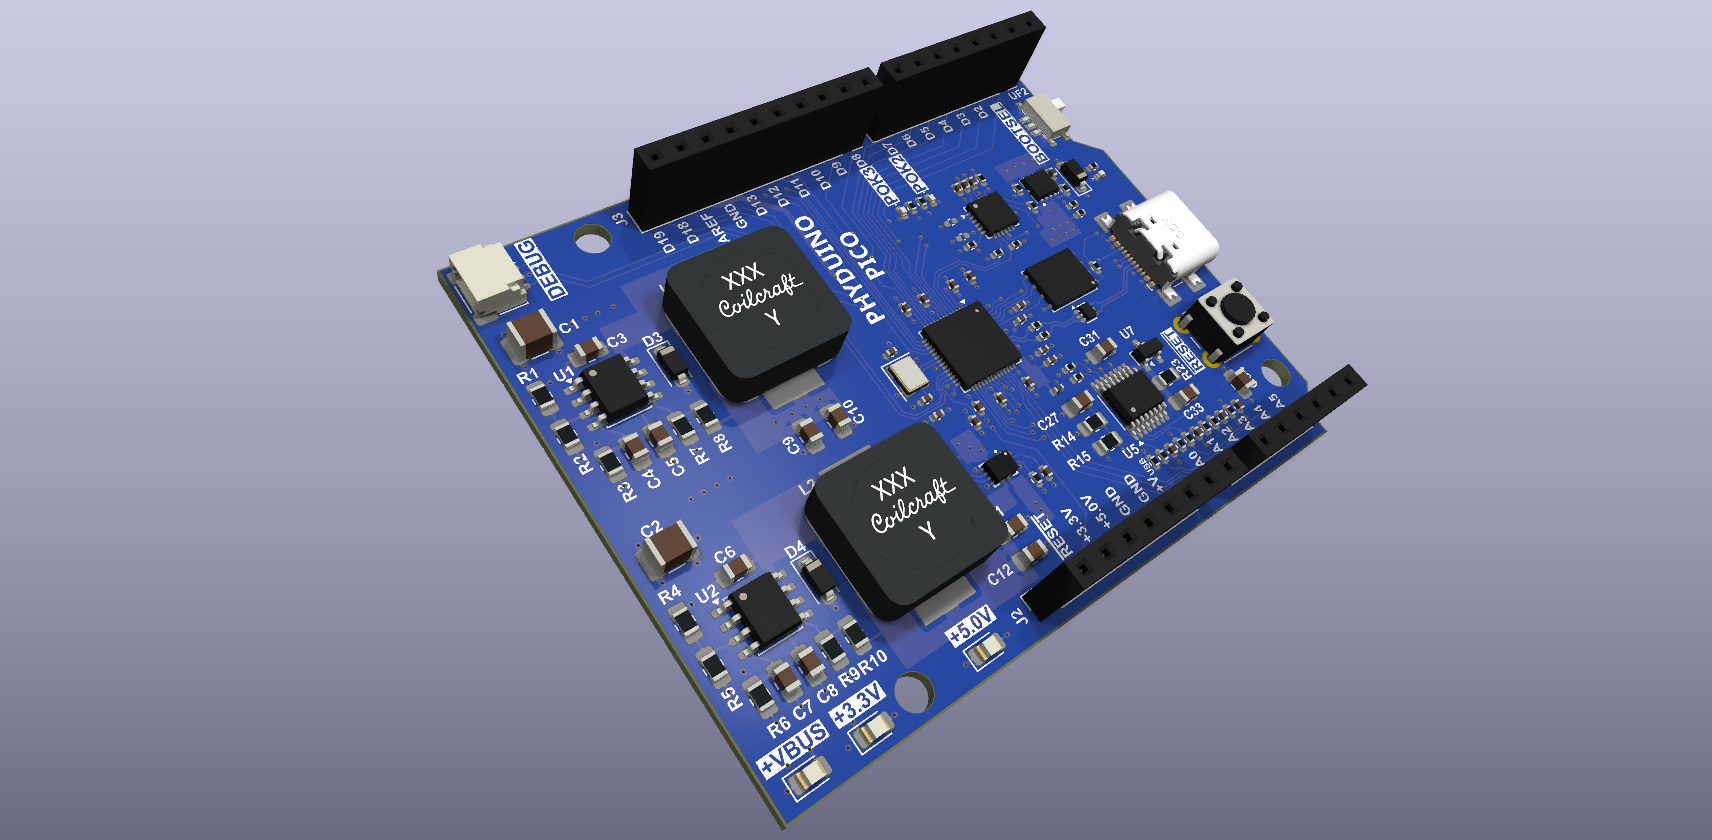
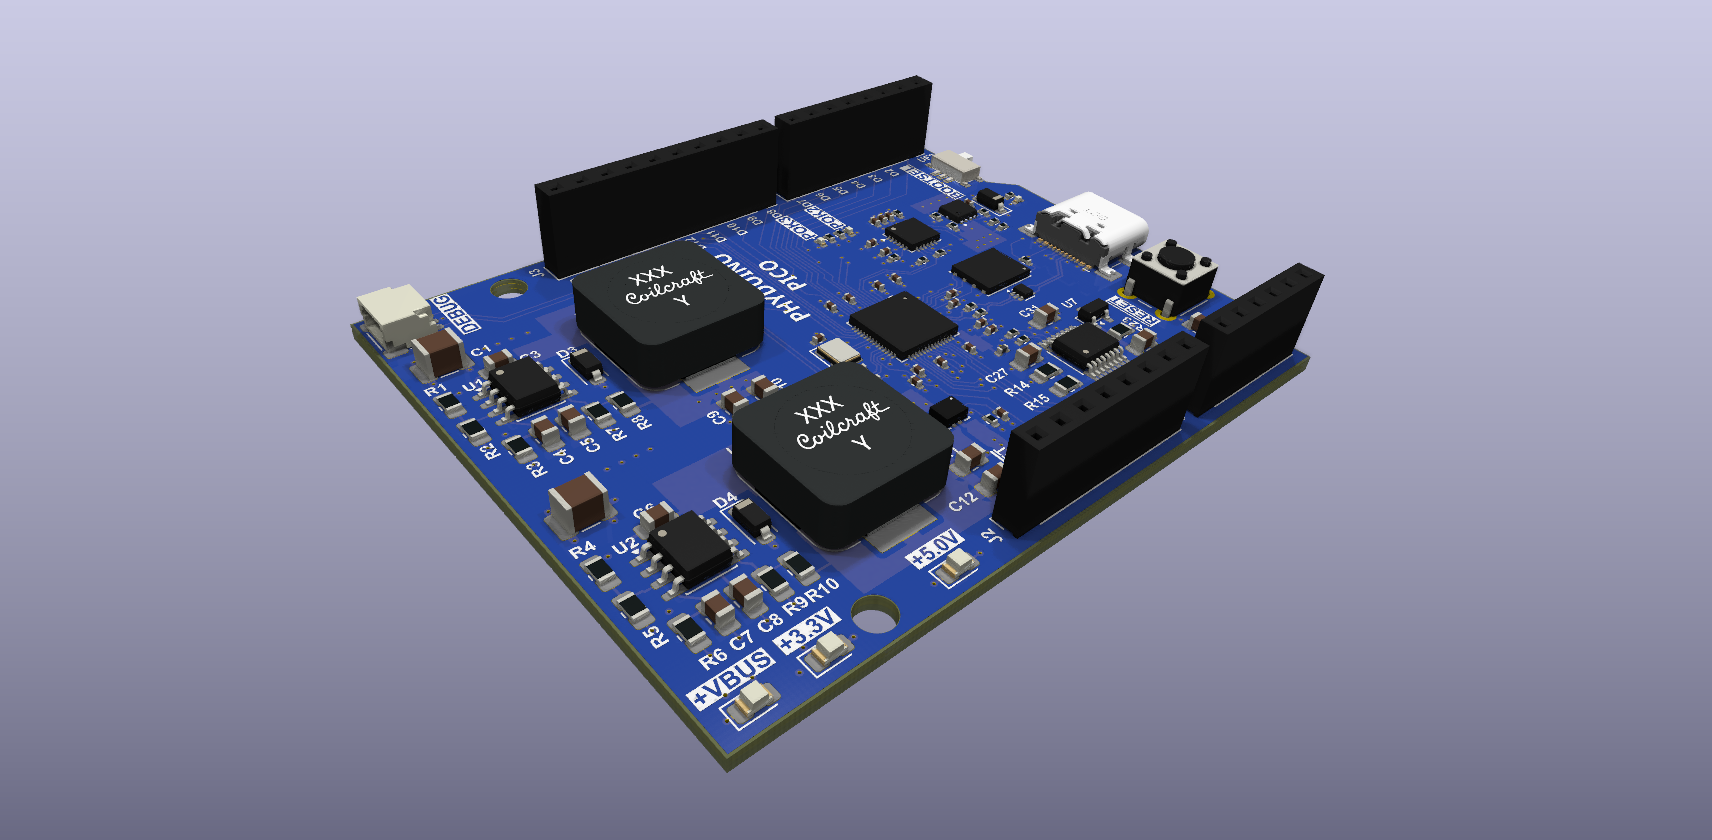
Change GitHub docs layout.

Changed region(s): [[0.1857, 0.0, 0.8049, 0.9905]]

diff --git a/docs/style/uoft_physics_perc_sw.css b/docs/style/uoft_physics_perc_sw.css
@@ -130,7 +130,7 @@ body {
 
 /* ── Board hero ── */
 .board-hero {
-  display: grid;
+  display: block;
   grid-template-columns: 1fr 300px;
   gap: 2rem;
   align-items: stretch;
@@ -138,7 +138,7 @@ body {
 }
 
 @media (max-width: 600px) {
-  .board-hero { grid-template-columns: 1fr; }
+  /* .board-hero { grid-template-columns: 1fr; } */
   .board-img-panel { order: -1; }
 }
 
@@ -150,6 +150,7 @@ body {
 .board-hero-text .board-desc {
   flex: 1;
 }
+
 
 .board-tag {
   display: inline-block;
@@ -163,6 +164,7 @@ body {
   margin-bottom: 10px;
   font-weight: 500;
   letter-spacing: 0.03em;
+  text-align: center;
 }
 
 h1 {
@@ -179,7 +181,9 @@ h1 {
   color: var(--text-2);
   line-height: 1.65;
   margin-bottom: 1.25rem;
-  max-width: 52ch;
+  margin-left: 5px;
+  margin-right: 5px;
+  /* max-width: 52ch; */
 }
 
 .spec-row {
@@ -202,6 +206,7 @@ h1 {
 }
 
 .board-img-panel {
+  height: 350px;
   background: var(--surface);
   border: 1px solid var(--border);
   border-radius: var(--r-lg);
@@ -210,6 +215,7 @@ h1 {
   display: flex;
   align-items: center;
   justify-content: center;
+  margin-bottom: 10px;
 }
 
 .board-img-panel img {
@@ -519,5 +525,3 @@ h1 {
 
 .footer-inner a       { font-family: Arial, Helvetica, sans-serif; color: rgba(255, 255, 255, 0.70); text-decoration: underline; }
 .footer-inner a:hover { color: rgba(255, 255, 255, 1); }
-
-

diff --git a/docs/index.html b/docs/index.html
@@ -30,8 +30,6 @@
     <a href="https://www.physics.utoronto.ca/physics-at-uoft/services/plrs/electronic-support-services/">Electronic Support Services</a>
     <span class="sep" aria-hidden="true">›</span>
     <a href="https://plrs.physics.utoronto.ca/course-listing/">Introduction to Electronics</a>
-    <!-- <span class="sep" aria-hidden="true">›</span> -->
-    <!-- <span class="current">Phyduino Pico</span> -->
   </div>
 </div>
 
@@ -41,6 +39,9 @@
   <div class="board-hero">
     <div class="board-hero-text">
       <span class="board-tag">Introduction to Electronics - Phyduino Pico</span>
+      <div class="board-img-panel">
+        <img src="./images/phyduino_pico.png" alt="Phyduino Pico board, top view" onerror="this.style.display='none'">
+      </div>
       <p class="board-desc">
         An Arduino Uno-style development board built around the Raspberry Pi RP2040 microcontroller,
         and designed for the Introduction to Electronics course. Students learn surface-mount
@@ -54,9 +55,6 @@
         <span class="spec-pill">Data Acquisition</span>
         <span class="spec-pill">Rev-E</span>
       </div>
-    </div>
-    <div class="board-img-panel">
-      <img src="./images/phyduino_pico.png" alt="Phyduino Pico board, top view" onerror="this.style.display='none'">
     </div>
   </div>
 